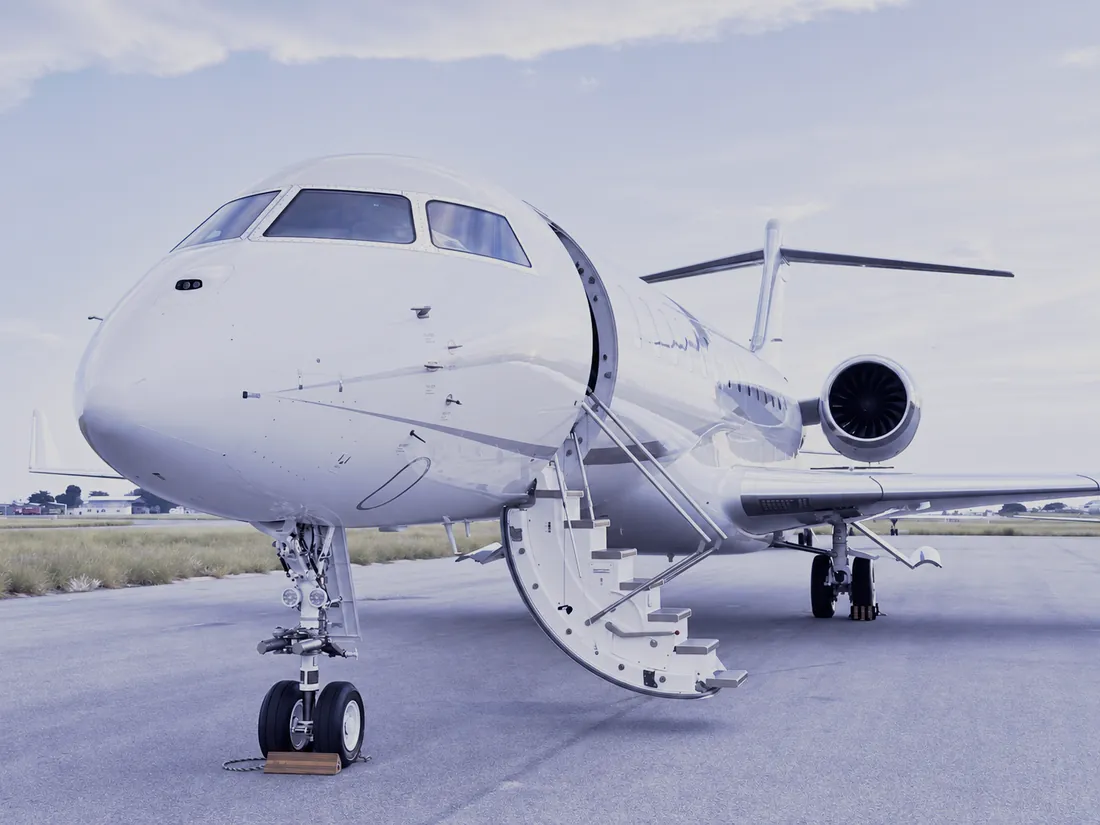
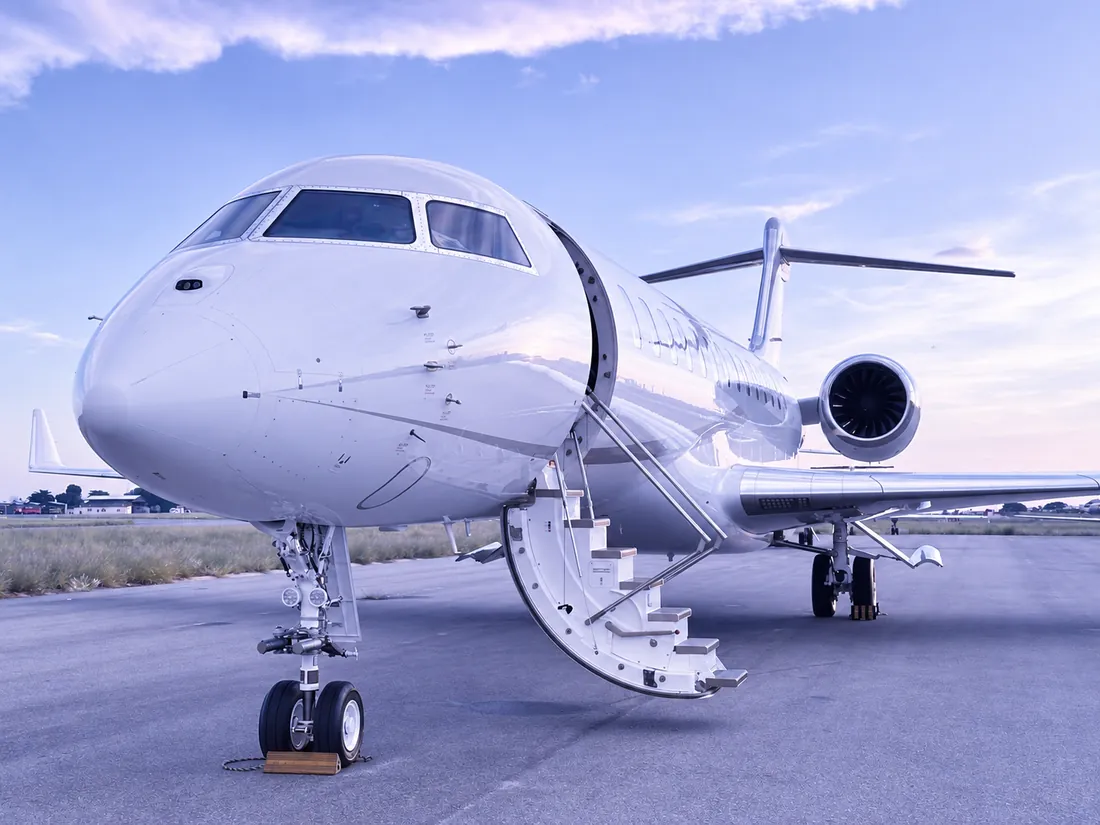
Add files via upload

diff --git a/style.css b/style.css
@@ -1039,13 +1039,13 @@ body{background:var(--bg)}
      sides: cover shows exactly (source height x box aspect) pixels of width,
      so trimming the master's left edge gains nothing at all. The 4:3 master
      shows ~79-82% of its width here.
-     10%: the aircraft fills the frame nose to wingtip, so something must go,
+     14%: the aircraft fills the frame nose to wingtip, so something must go,
      and it is the tail end rather than the NOSE — the nose is the subject and
      a sliced nose reads as a mistake, while an engine running off the right
      edge reads as an aeroplane too big for the picture, which is the point.
-     The nose tip sits at x 55 and clears by 24-29px at every desktop size. */
+     The nose tip sits at x 90 and clears by 47-54px at every desktop size. */
   .banner-card img{width:100%; height:100%; aspect-ratio:auto;
-    object-fit:cover; object-position:10% 50%}
+    object-fit:cover; object-position:14% 50%}
 
   .stk.copy-card{margin:0; border-radius:0 var(--stack-radius) var(--stack-radius) 0;
     /* the foot must clear the lap of the card below (84px) or that card covers
@@ -1116,7 +1116,7 @@ body{background:var(--bg)}
 }
 @media (max-width:560px){
   /* 1.5:1 costs only 11% of the height, so the phone keeps both the sky and
-     the gear. 75%, not 55%: this frame leaves just 66px of tarmac below the
+     the gear. 75%, not 55%: this frame leaves just 68px of tarmac below the
      chock, so the crop has to sit low or the wheels go. */
   .banner-card img{aspect-ratio:1.5 / 1; object-position:center 75%}
   .stk.copy-card{margin-top:-26px}   /* >= the 22px radius at this width */

diff --git a/verify.html b/verify.html
@@ -7,7 +7,7 @@
 <meta name="theme-color" content="#3E44B5">
 <meta http-equiv="Content-Security-Policy" content="default-src 'self'; base-uri 'none'; frame-ancestors 'none'; object-src 'none'; img-src 'self' data:; style-src 'self' 'unsafe-inline'; script-src 'self'; connect-src 'self' https://api.caw-academy.com; form-action 'self'">
 <link rel="icon" href="favicon.ico">
-<link rel="stylesheet" href="style.css?v=79">
+<link rel="stylesheet" href="style.css?v=80">
 <style>
   .acct-wrap{max-width:560px; margin:6vh auto 80px; padding:0 20px}
   .acct-card{background:#fff; border:1px solid var(--line); border-radius:18px; padding:26px 24px; box-shadow:var(--shadow-md)}

diff --git a/index.html b/index.html
@@ -97,7 +97,7 @@
 <link rel="preload" as="image" href="screens/hero-jet-1100.webp"
       imagesrcset="screens/hero-jet-768.webp 768w, screens/hero-jet-1100.webp 1100w, screens/hero-jet-1448.webp 1448w"
       imagesizes="(min-width:1025px) 1120px, 100vw" fetchpriority="high">
-<link rel="stylesheet" href="style.css?v=79">
+<link rel="stylesheet" href="style.css?v=80">
 <link rel="stylesheet" href="caw-interactive.css?v=26">
 </head>
 <body>

diff --git a/privacy.html b/privacy.html
@@ -8,7 +8,7 @@
 <link rel="icon" type="image/png" sizes="192x192" href="icon-192.png?v=3">
 <link rel="icon" type="image/png" sizes="32x32" href="icon-192.png?v=3">
 <link rel="apple-touch-icon" href="apple-touch-icon.png?v=3">
-<link rel="stylesheet" href="style.css?v=79">
+<link rel="stylesheet" href="style.css?v=80">
 </head>
 <body class="page-short">
 

diff --git a/support.html b/support.html
@@ -8,7 +8,7 @@
 <link rel="icon" type="image/png" sizes="192x192" href="icon-192.png?v=3">
 <link rel="icon" type="image/png" sizes="32x32" href="icon-192.png?v=3">
 <link rel="apple-touch-icon" href="apple-touch-icon.png?v=3">
-<link rel="stylesheet" href="style.css?v=79">
+<link rel="stylesheet" href="style.css?v=80">
 </head>
 <body class="page-short">
 

diff --git a/terms.html b/terms.html
@@ -8,7 +8,7 @@
 <link rel="icon" type="image/png" sizes="192x192" href="icon-192.png?v=3">
 <link rel="icon" type="image/png" sizes="32x32" href="icon-192.png?v=3">
 <link rel="apple-touch-icon" href="apple-touch-icon.png?v=3">
-<link rel="stylesheet" href="style.css?v=79">
+<link rel="stylesheet" href="style.css?v=80">
 </head>
 <body class="page-short">
 
